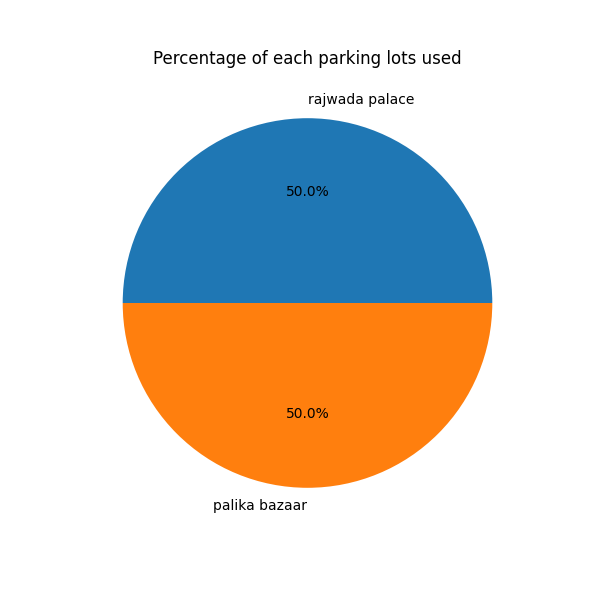
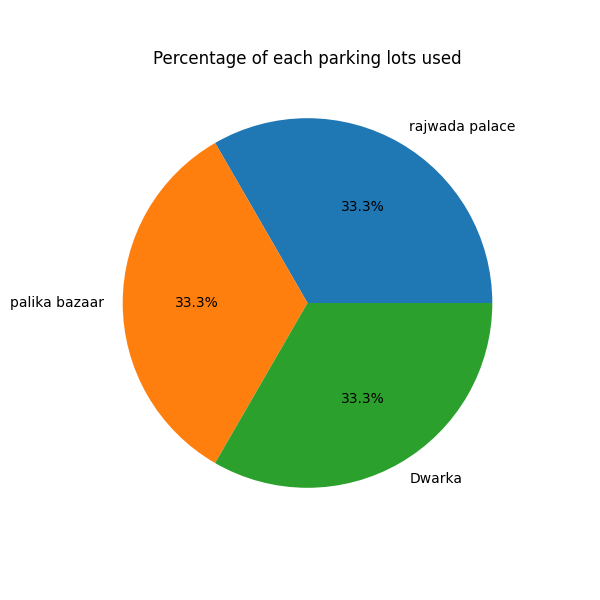
Milestone-VP Cost-Calculation

diff --git a/templates/user_summary.html b/templates/user_summary.html
@@ -10,5 +10,29 @@
         <img src="/static/lots_used.png" alt="">
     </div>
     
-</div>
+   <div class="parking-record-summary-table">
+
+    
+     <table class="parkinglot-table">
+        <thead>
+            <tr>
+                <th>Lot name</th>
+                <th>Total duration</th>
+                <th>Parking cost</th>
+            </tr>
+        </thead>
+        <tbody>
+        {% for lot_name,total_duration in parking_duration.items() %}
+        <tr >
+            <td>{{lot_name}}</td>
+            <td>{{total_duration}}/hrs</td>
+            <td>₹{{parking_cost[lot_name]}}</td>
+
+        </tr>
+        {% endfor %}
+        </tbody>
+    </table>
+
+</div>   
+</div>                
 {% endblock %}

diff --git a/templates/user_dashboard.html b/templates/user_dashboard.html
@@ -42,7 +42,7 @@
                         <!-- Looping starts here -->
                          {% for lot in parking_lot_details %}
                         <tr>
-                            <td>{{lot.id}}
+                            <td>{{lot.id}}</td>
                             <td>{{lot.prime_location_name}}</td>
                             <td>{{lot.address}}</td>
                             <td>{{lot.pincode}}</td>

diff --git a/static/style.css b/static/style.css
@@ -309,3 +309,13 @@ li,a,button{
 .lot-revenue-pie-chart-container{
     width: 650px;
 }
+.lots-used-pie-chart-container{
+    width: 650px;
+}
+
+.parking-record-summary-table{
+    width: 500px;
+    margin-top: 50px;
+    overflow-y: auto;
+    max-height: 300px;
+}

diff --git a/Application/controllers.py b/Application/controllers.py
@@ -364,12 +364,30 @@ def admin_summary():
 def user_summary(user_id):
     parking_records=Parkingrecords.query.filter_by(user_id=user_id,status='released').all()
     lots_used=dict()
+    parking_duration=dict()
+    parking_cost=dict()
+
     for record in parking_records:
         lot_name=record.spot.lot.prime_location_name
         if lot_name in lots_used:
             lots_used[lot_name]+=1
         else:
             lots_used[lot_name]=1
+
+        # calculating duration of each parking
+        if record.parking_timestamp and record.leaving_timestamp:
+            duration=(record.leaving_timestamp-record.parking_timestamp).total_seconds()
+            duration=round(duration/3600,2)
+
+            if lot_name in parking_duration:
+                parking_duration[lot_name]+=duration
+            else:
+                parking_duration[lot_name]=duration
+
+            if lot_name in parking_cost:
+                parking_cost[lot_name]+=record.parking_cost
+            else:
+                parking_cost[lot_name]=record.parking_cost            
 
     if lots_used==None:
         return 'No parking records'
@@ -382,7 +400,7 @@ def user_summary(user_id):
     plt.title('Percentage of each parking lots used')
     plt.savefig('static/lots_used.png')
     plt.clf()
-    return render_template('user_summary.html',user_id=user_id)
+    return render_template('user_summary.html',user_id=user_id,parking_duration=parking_duration,parking_cost=parking_cost)
 
 @app.route('/logout')
 def logout():
